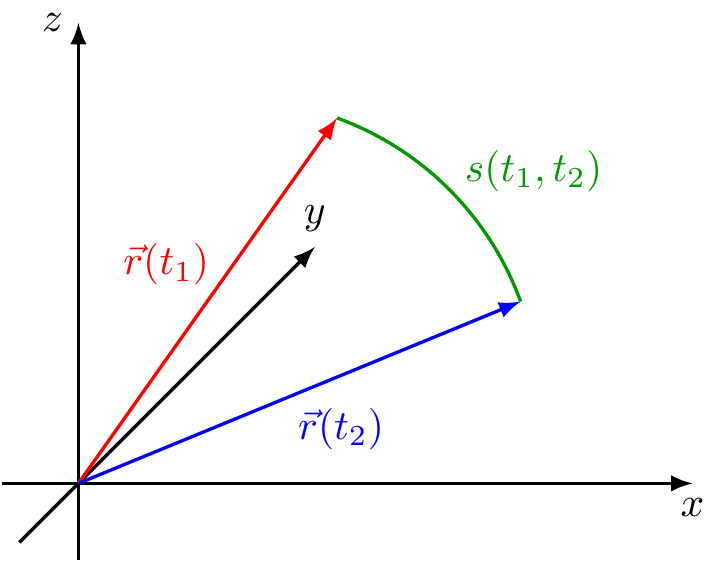
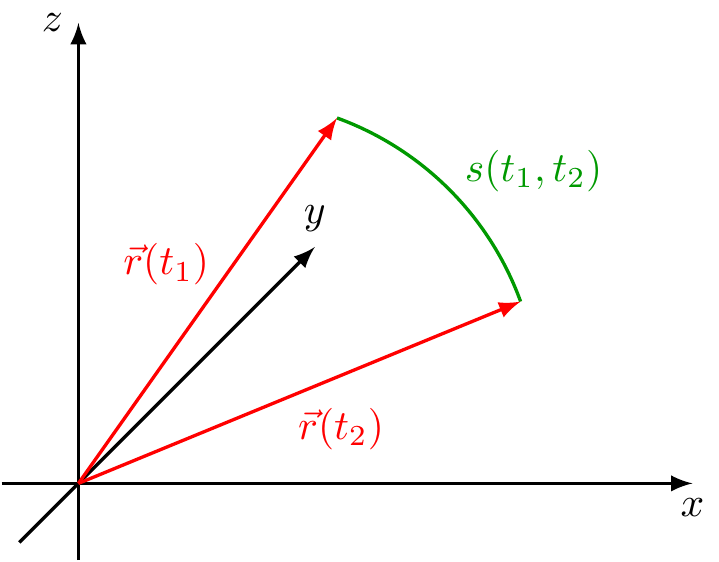
make space vectors red

diff --git a/mechanics/space-point-2-delta/space-point-2-delta.tex b/mechanics/space-point-2-delta/space-point-2-delta.tex
@@ -19,8 +19,8 @@
   % space point
   \coordinate (r1) at ($(1,0.5)+(70:2)$);
   \coordinate (r2) at ($(1,0.5)+(20:2)$);
-  \draw[->,thick,red]  (xyz cs:x=0) -- node[above,xshift=-1em]{$\place(t_1)$} (r1);
-  \draw[->,thick,blue] (xyz cs:x=0) -- node[below,xshift=+1em]{$\place(t_2)$} (r2);
+  \draw[->,thick,red] (xyz cs:x=0) -- node[above,xshift=-1em]{$\place(t_1)$} (r1);
+  \draw[->,thick,red] (xyz cs:x=0) -- node[below,xshift=+1em]{$\place(t_2)$} (r2);
   % delta r
   \draw[->,thick,dashed] (r1) -- node[below,anchor=east,xshift=0.5em,yshift=-1em]{$\Delta\place$} (r2);
 \end{tikzpicture}

diff --git a/mechanics/curve-length/curve-length.tex b/mechanics/curve-length/curve-length.tex
@@ -17,7 +17,7 @@
   \draw[thick,black!40!green] (r1) arc (70:20:2);
   \node[right,xshift=0.5em,black!40!green] at ($(1,0.5)+(50:2)$) {$s(t_1,t_2)$};
   % space-point vectors
-  \draw[->,thick,red]  (xyz cs:x=0) -- node[above,xshift=-1em]{$\place(t_1)$} (r1);
-  \draw[->,thick,blue] (xyz cs:x=0) -- node[below,xshift=+1em]{$\place(t_2)$} (r2);
+  \draw[->,thick,red] (xyz cs:x=0) -- node[above,xshift=-1em]{$\place(t_1)$} (r1);
+  \draw[->,thick,red] (xyz cs:x=0) -- node[below,xshift=+1em]{$\place(t_2)$} (r2);
 \end{tikzpicture}
 \end{document}

diff --git a/mechanics/space-point-2/space-point-2.tex b/mechanics/space-point-2/space-point-2.tex
@@ -19,7 +19,7 @@
   % space point
   \coordinate (r1) at ($(1,0.5)+(70:2)$);
   \coordinate (r2) at ($(1,0.5)+(20:2)$);
-  \draw[->,thick,red]  (xyz cs:x=0) -- node[above,xshift=-1em]{$\place(t_1)$} (r1);
-  \draw[->,thick,blue] (xyz cs:x=0) -- node[below,xshift=+1em]{$\place(t_2)$} (r2);
+  \draw[->,thick,red] (xyz cs:x=0) -- node[above,xshift=-1em]{$\place(t_1)$} (r1);
+  \draw[->,thick,red] (xyz cs:x=0) -- node[below,xshift=+1em]{$\place(t_2)$} (r2);
 \end{tikzpicture}
 \end{document}

diff --git a/list.md b/list.md
@@ -79,8 +79,8 @@
   \draw[thick,black!40!green] (r1) arc (70:20:2);
   \node[right,xshift=0.5em,black!40!green] at ($(1,0.5)+(50:2)$) {$s(t_1,t_2)$};
   % space-point vectors
-  \draw[->,thick,red]  (xyz cs:x=0) -- node[above,xshift=-1em]{$\place(t_1)$} (r1);
-  \draw[->,thick,blue] (xyz cs:x=0) -- node[below,xshift=+1em]{$\place(t_2)$} (r2);
+  \draw[->,thick,red] (xyz cs:x=0) -- node[above,xshift=-1em]{$\place(t_1)$} (r1);
+  \draw[->,thick,red] (xyz cs:x=0) -- node[below,xshift=+1em]{$\place(t_2)$} (r2);
 \end{tikzpicture}
 \end{document}
 ~~~
@@ -108,8 +108,8 @@
   % space point
   \coordinate (r1) at ($(1,0.5)+(70:2)$);
   \coordinate (r2) at ($(1,0.5)+(20:2)$);
-  \draw[->,thick,red]  (xyz cs:x=0) -- node[above,xshift=-1em]{$\place(t_1)$} (r1);
-  \draw[->,thick,blue] (xyz cs:x=0) -- node[below,xshift=+1em]{$\place(t_2)$} (r2);
+  \draw[->,thick,red] (xyz cs:x=0) -- node[above,xshift=-1em]{$\place(t_1)$} (r1);
+  \draw[->,thick,red] (xyz cs:x=0) -- node[below,xshift=+1em]{$\place(t_2)$} (r2);
   % delta r
   \draw[->,thick,dashed] (r1) -- node[below,anchor=east,xshift=0.5em,yshift=-1em]{$\Delta\place$} (r2);
 \end{tikzpicture}
@@ -139,8 +139,8 @@
   % space point
   \coordinate (r1) at ($(1,0.5)+(70:2)$);
   \coordinate (r2) at ($(1,0.5)+(20:2)$);
-  \draw[->,thick,red]  (xyz cs:x=0) -- node[above,xshift=-1em]{$\place(t_1)$} (r1);
-  \draw[->,thick,blue] (xyz cs:x=0) -- node[below,xshift=+1em]{$\place(t_2)$} (r2);
+  \draw[->,thick,red] (xyz cs:x=0) -- node[above,xshift=-1em]{$\place(t_1)$} (r1);
+  \draw[->,thick,red] (xyz cs:x=0) -- node[below,xshift=+1em]{$\place(t_2)$} (r2);
 \end{tikzpicture}
 \end{document}
 ~~~
